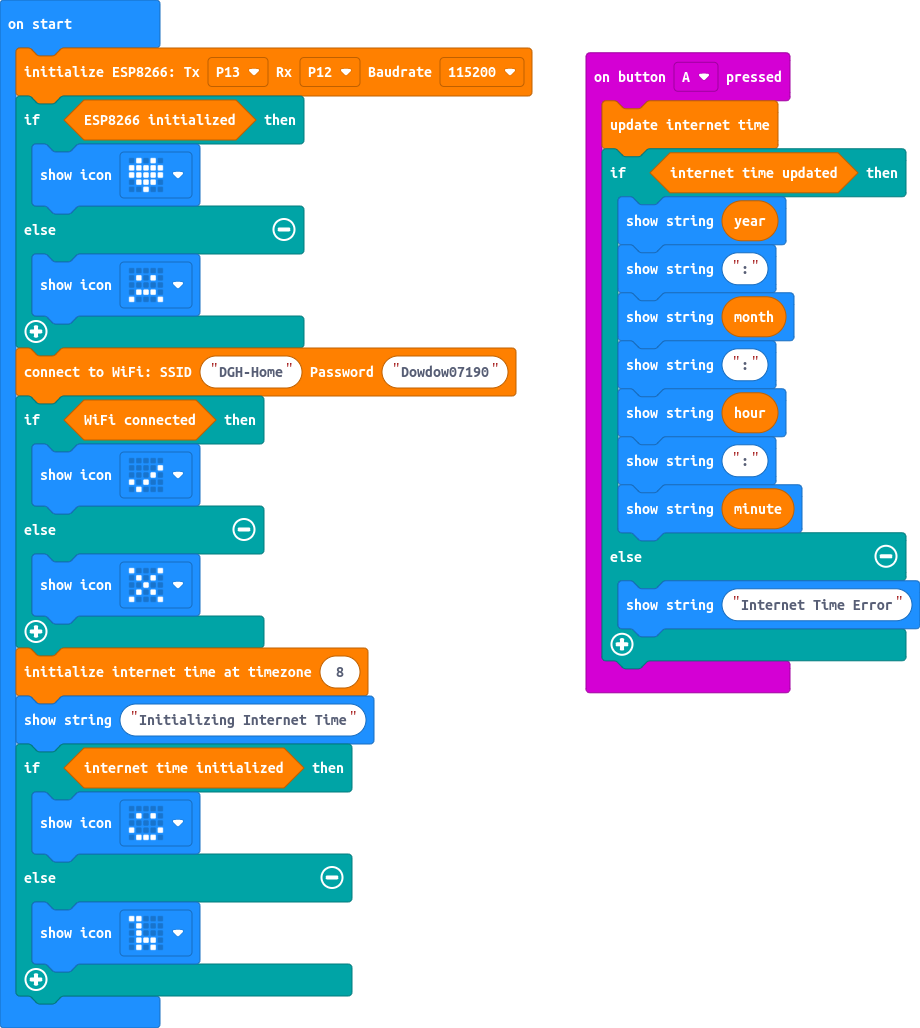
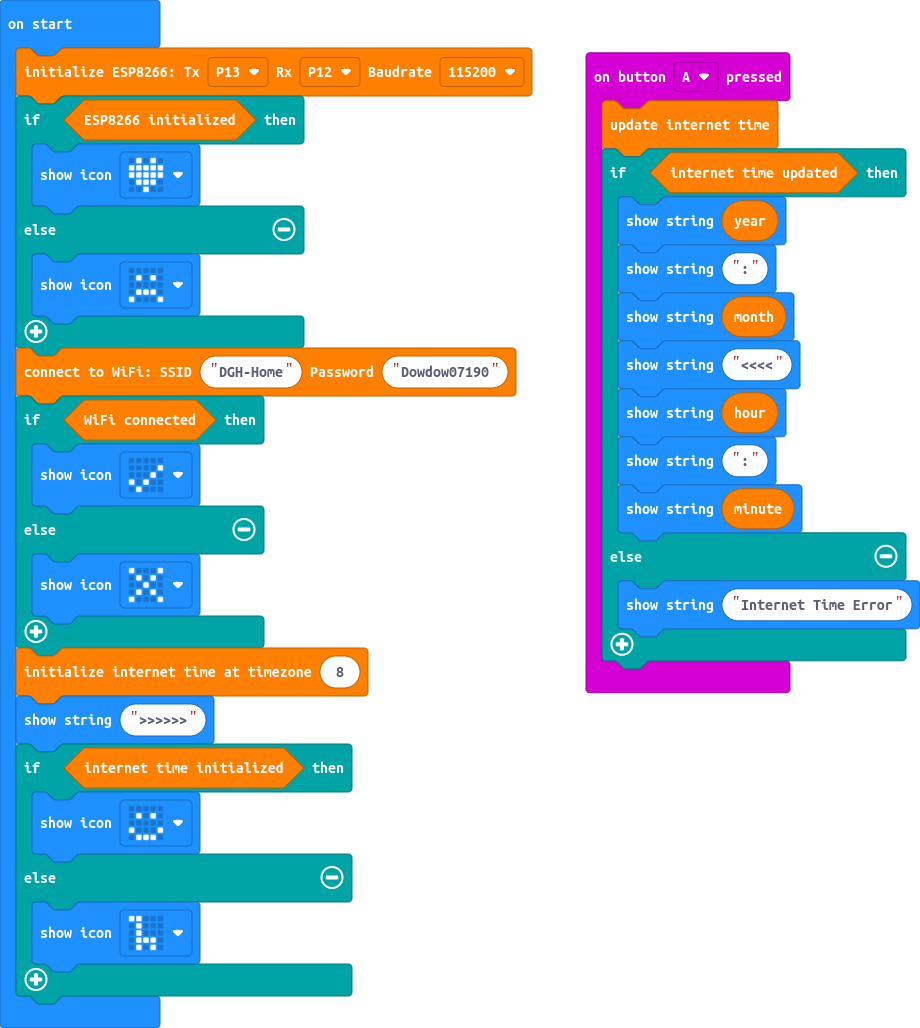
Update main.blocks, main.ts

Changed region(s): [[0.1522, 0.6537, 0.4261, 0.7471], [0.8217, 0.3113, 0.8826, 0.4047]]

diff --git a/main.ts b/main.ts
@@ -4,7 +4,7 @@ input.onButtonPressed(Button.A, function () {
         basic.showString("" + (esp8266.getYear()))
         basic.showString(":")
         basic.showString("" + (esp8266.getMonth()))
-        basic.showString(":")
+        basic.showString("<<<<")
         basic.showString("" + (esp8266.getHour()))
         basic.showString(":")
         basic.showString("" + (esp8266.getMinute()))
@@ -25,7 +25,7 @@ if (esp8266.isWifiConnected()) {
     basic.showIcon(IconNames.No)
 }
 esp8266.initInternetTime(8)
-basic.showString("Initializing Internet Time")
+basic.showString(">>>>>>")
 if (esp8266.isInternetTimeInitialized()) {
     basic.showIcon(IconNames.Happy)
 } else {
